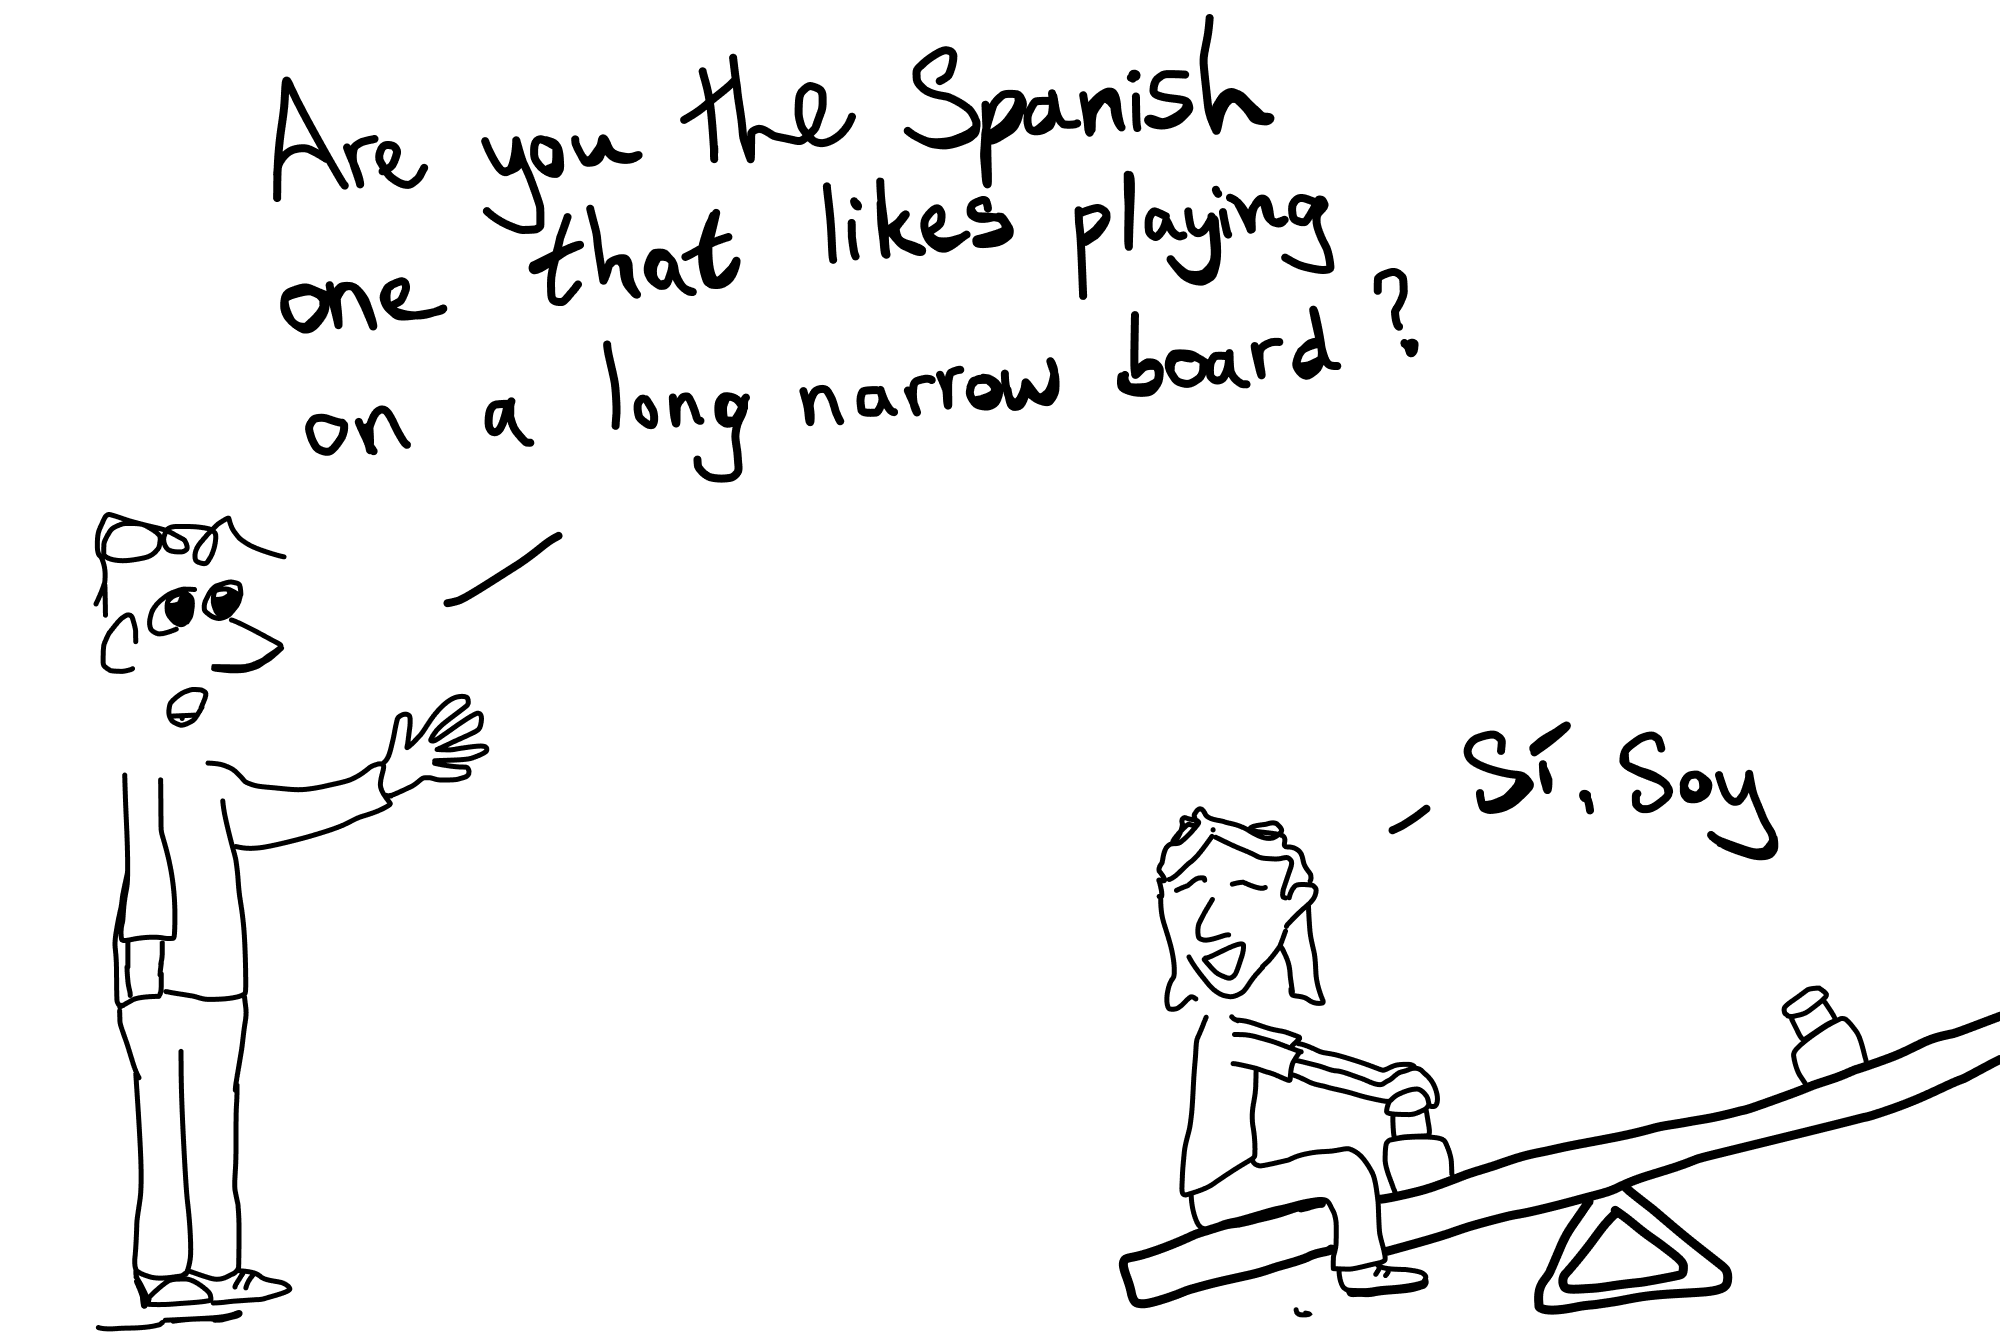
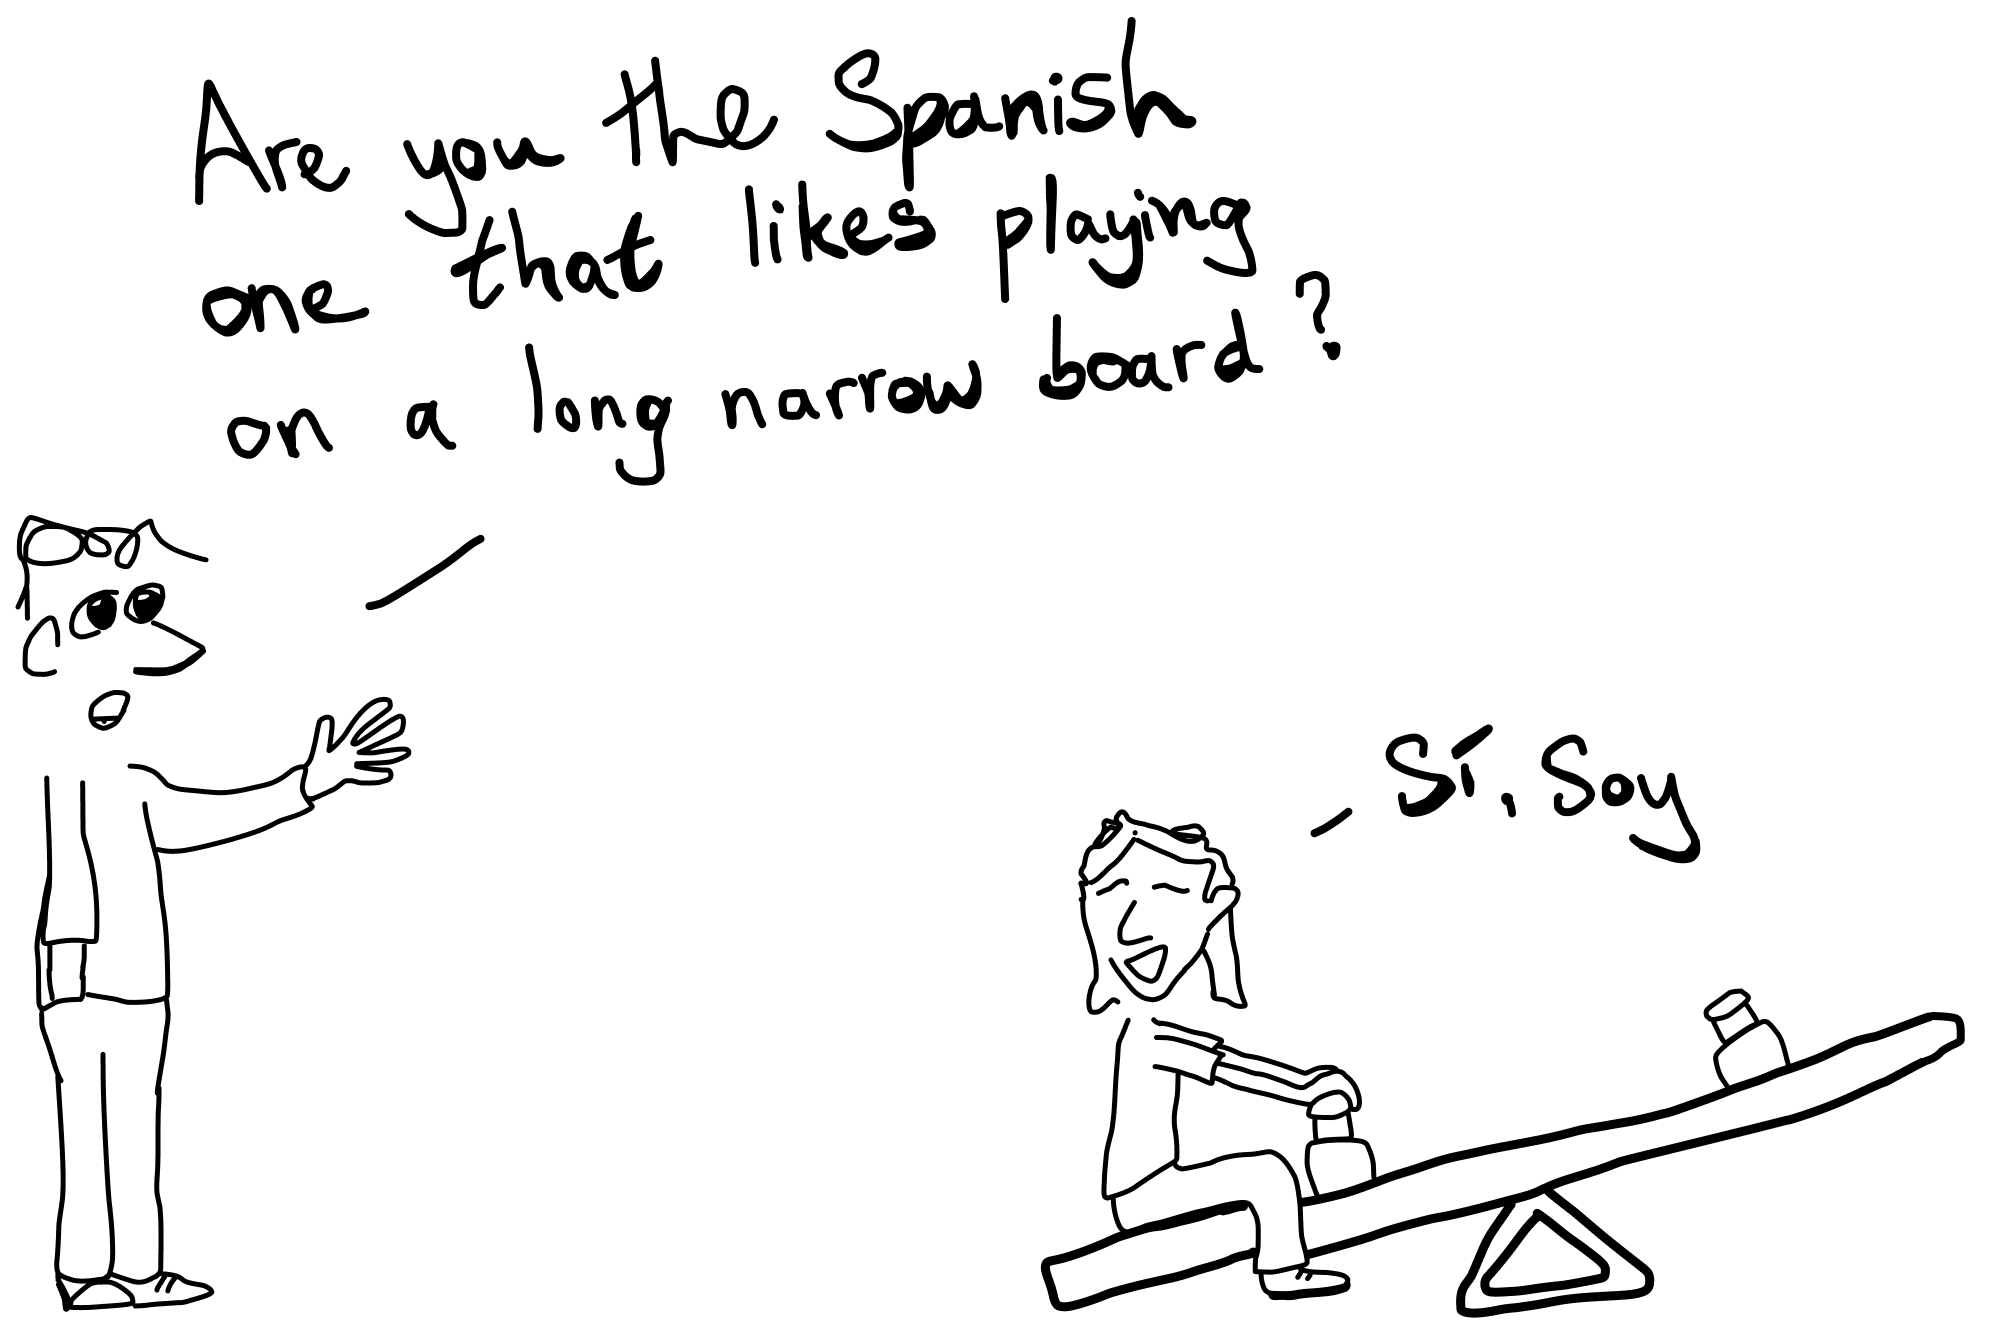
lightbox mode for the doodles

diff --git a/src/routes/doodles.tsx b/src/routes/doodles.tsx
@@ -1,8 +1,13 @@
 import { Picture } from "@/components/molecules/Picture";
 import { Page, Panel } from "@/styles/routes/blog.styled";
-import { masonryImgStyles } from "@/styles/routes/routes.styled";
+import {
+  LightboxImage,
+  LightboxOverlay,
+  masonryImgStyles,
+} from "@/styles/routes/routes.styled";
 import { createFileRoute } from "@tanstack/react-router";
 import { Masonry } from "masonic";
+import { useEffect, useState } from "react";
 
 const title = "Doodles | Michael Savage";
 const description =
@@ -25,20 +30,45 @@ export const Route = createFileRoute("/doodles")({
 
 const doodles = import.meta.glob(
   "/src/content/doodles/*.{png,jpg,jpeg,webp,svg}",
-  { eager: true, query: "?url", import: "default" }
+  { eager: true, query: "?url", import: "default" },
 );
 const doodleEntries = Object.entries(doodles) as [string, string][];
 
-const MasonryImg = ({ data: [path, src] }: { data: [string, string] }) => (
+const MasonryImg = ({
+  data: [path, src],
+  onClick,
+}: {
+  data: [string, string];
+  onClick: (src: string) => void;
+}) => (
   <Picture
     src={src}
     alt={path.split("/").pop()?.replace(/\..+$/, "") || ""}
     fit="contain"
     style={masonryImgStyles}
+    onClick={() => onClick(src)}
   />
 );
 
 function RouteComponent() {
+  const [selected, setSelected] = useState<string | null>(null);
+
+  useEffect(() => {
+    if (!selected) return;
+
+    const handleKeyDown = (e: KeyboardEvent) => {
+      if (e.key === "Escape") setSelected(null);
+    };
+
+    document.addEventListener("keydown", handleKeyDown);
+    document.body.style.overflow = "hidden";
+
+    return () => {
+      document.removeEventListener("keydown", handleKeyDown);
+      document.body.style.overflow = "";
+    };
+  }, [selected]);
+
   return (
     <Page>
       <Panel>
@@ -47,10 +77,16 @@ function RouteComponent() {
 
       <Masonry
         items={doodleEntries}
-        render={MasonryImg}
+        render={(props) => <MasonryImg {...props} onClick={setSelected} />}
         columnGutter={8}
         columnWidth={250}
       />
+
+      {selected && (
+        <LightboxOverlay onClick={() => setSelected(null)}>
+          <LightboxImage src={selected} alt="" />
+        </LightboxOverlay>
+      )}
     </Page>
   );
 }

diff --git a/src/styles/routes/routes.styled.ts b/src/styles/routes/routes.styled.ts
@@ -1,5 +1,6 @@
+import { expandAndAppear } from "@/styles/abstracts/animations.styled";
 import { forPhoneOnly, forTabletOnly } from "@/styles/abstracts/mixins.styled";
-import { css } from "@emotion/react";
+import { css, keyframes } from "@emotion/react";
 import styled from "@emotion/styled";
 
 export const Div = styled.div`
@@ -46,11 +47,39 @@ export const PostList = styled.div`
 `;
 
 export const masonryImgStyles = css`
+  cursor: pointer;
   transition: transform 0.2s ease;
 
   &:hover {
     transform: scale(1.05);
   }
+`;
+
+const fadeIn = keyframes`
+  from {
+    opacity: 0;
+  }
+  to {
+    opacity: 1;
+  }
+`;
+
+export const LightboxOverlay = styled.div`
+  position: fixed;
+  inset: 0;
+  z-index: 100;
+  display: grid;
+  place-items: center;
+  background-color: var(--color-white);
+  cursor: zoom-out;
+  animation: ${fadeIn} 0.2s ease-out;
+`;
+
+export const LightboxImage = styled.img`
+  max-width: 90vw;
+  max-height: 90vh;
+  object-fit: contain;
+  ${expandAndAppear("0.2s")}
 `;
 
 export const SplitView = styled.div`

diff --git a/src/components/molecules/Picture/Picture.tsx b/src/components/molecules/Picture/Picture.tsx
@@ -1,4 +1,5 @@
 import type { SerializedStyles } from "@emotion/react";
+import type { MouseEvent } from "react";
 import { ImageStyle, NotFound, Wrapper } from "./Picture.styled";
 
 interface Props {
@@ -9,6 +10,7 @@ interface Props {
   ar?: string;
   caption?: string;
   fit?: "cover" | "contain";
+  onClick?: (e: MouseEvent<HTMLElement>) => void;
 }
 
 export const Picture = ({
@@ -19,13 +21,14 @@ export const Picture = ({
   ar,
   caption,
   fit = "cover",
+  onClick,
 }: Props) => {
   if (!src) {
     return <NotFound src="/not-found.png" alt="src not found" />;
   }
 
   return (
-    <Wrapper css={style}>
+    <Wrapper css={style} onClick={onClick}>
       <ImageStyle src={src} alt={alt} loading={loading} ar={ar} fit={fit} />
       {caption && <figcaption>{caption}</figcaption>}
     </Wrapper>
